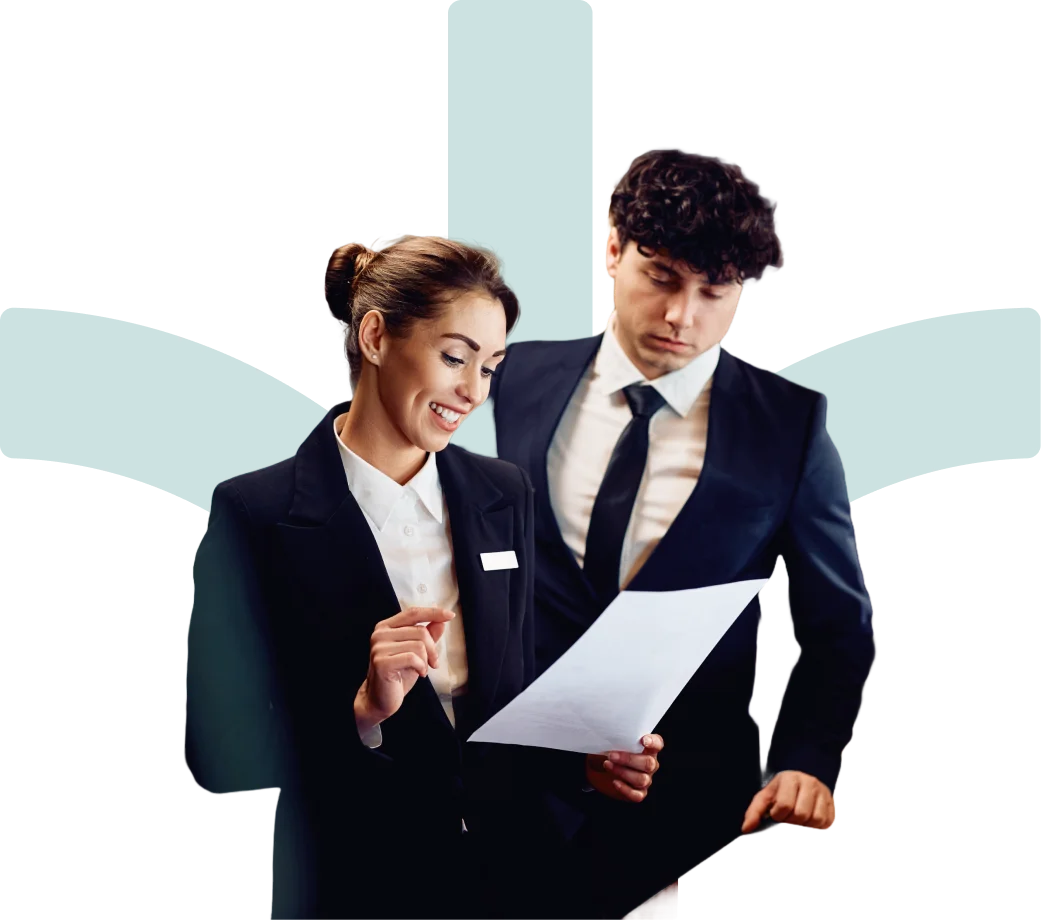
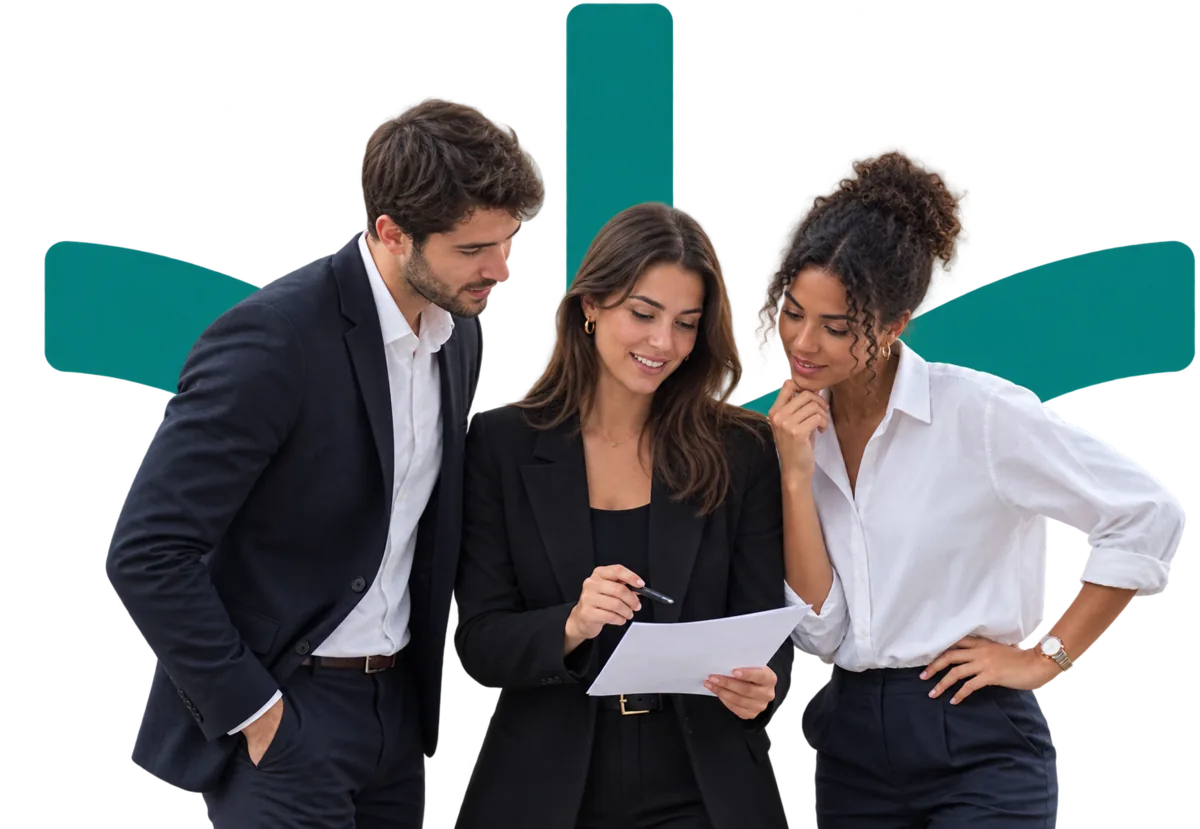
feat(hero): nouvelle photo d'équipe dans le visuel hero
Remplace hero-tf.webp par la nouvelle image détournée (1200x829, WebP
avec alpha, 103 Ko) et met à jour width/height du composant pour
conserver le bon ratio et éviter le CLS.

Claude-Session: https://claude.ai/code/session_01DHyEsUC7sLu5TdqUsNMNN5

diff --git a/src/components/sections/HeroDashboard.tsx b/src/components/sections/HeroDashboard.tsx
@@ -48,8 +48,8 @@ export function HeroDashboard() {
         <Image
           src="/images/hero-tf.webp"
           alt="TriggerFlow – plateforme CRM et automatisation hôtelière"
-          width={1041}
-          height={920}
+          width={1200}
+          height={829}
           priority
           className="h-auto w-full"
         />
